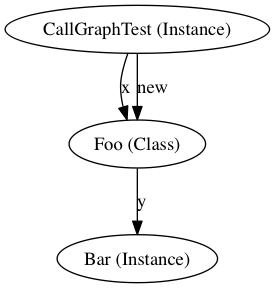
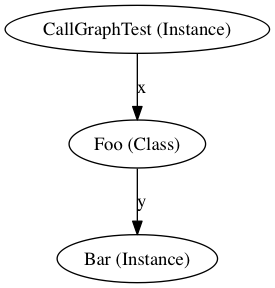
ignore new until fixing caller

Changed region(s): [[0.4945, 0.2812, 0.6109, 0.3438], [0.4364, 0.1875, 0.4655, 0.4375]]

diff --git a/lib/call_graph.rb b/lib/call_graph.rb
@@ -38,7 +38,7 @@ module CallGraph
         return if caller_class == receiver_class
         return if receiver_class.nil?
         return if caller_class.nil?
-        return if [:require, :set_encoding, :initialize, :attr_reader, :method_added, :private, :inherited, :singleton_method_added, :set_trace_func].include?(id)
+        return if [:require, :set_encoding, :initialize, :new, :attr_reader, :method_added, :private, :inherited, :singleton_method_added, :set_trace_func].include?(id)
 
         # TODO: extract config.
         File.open(tmp_path, 'a') { |fd| fd.write "#{caller_class},#{receiver_class},#{id}\n" }

diff --git a/test/call_graph_test.rb b/test/call_graph_test.rb
@@ -30,7 +30,6 @@ class CallGraphTest < Minitest::Test
   def test_foobar_tmp
     assert_equal call_graph_tmp, <<-TXT
 CallGraphTest (Instance),Foo (Class),x
-CallGraphTest (Instance),Foo (Class),new
 Foo (Class),Bar (Instance),y
 TXT
   end
@@ -41,7 +40,6 @@ TXT
     assert_equal call_graph_dot, <<-TXT
 digraph call_graph {
   "CallGraphTest (Instance)" -> "Foo (Class)" [label="x"];
-  "CallGraphTest (Instance)" -> "Foo (Class)" [label="new"];
   "Foo (Class)" -> "Bar (Instance)" [label="y"];
 }
 TXT
